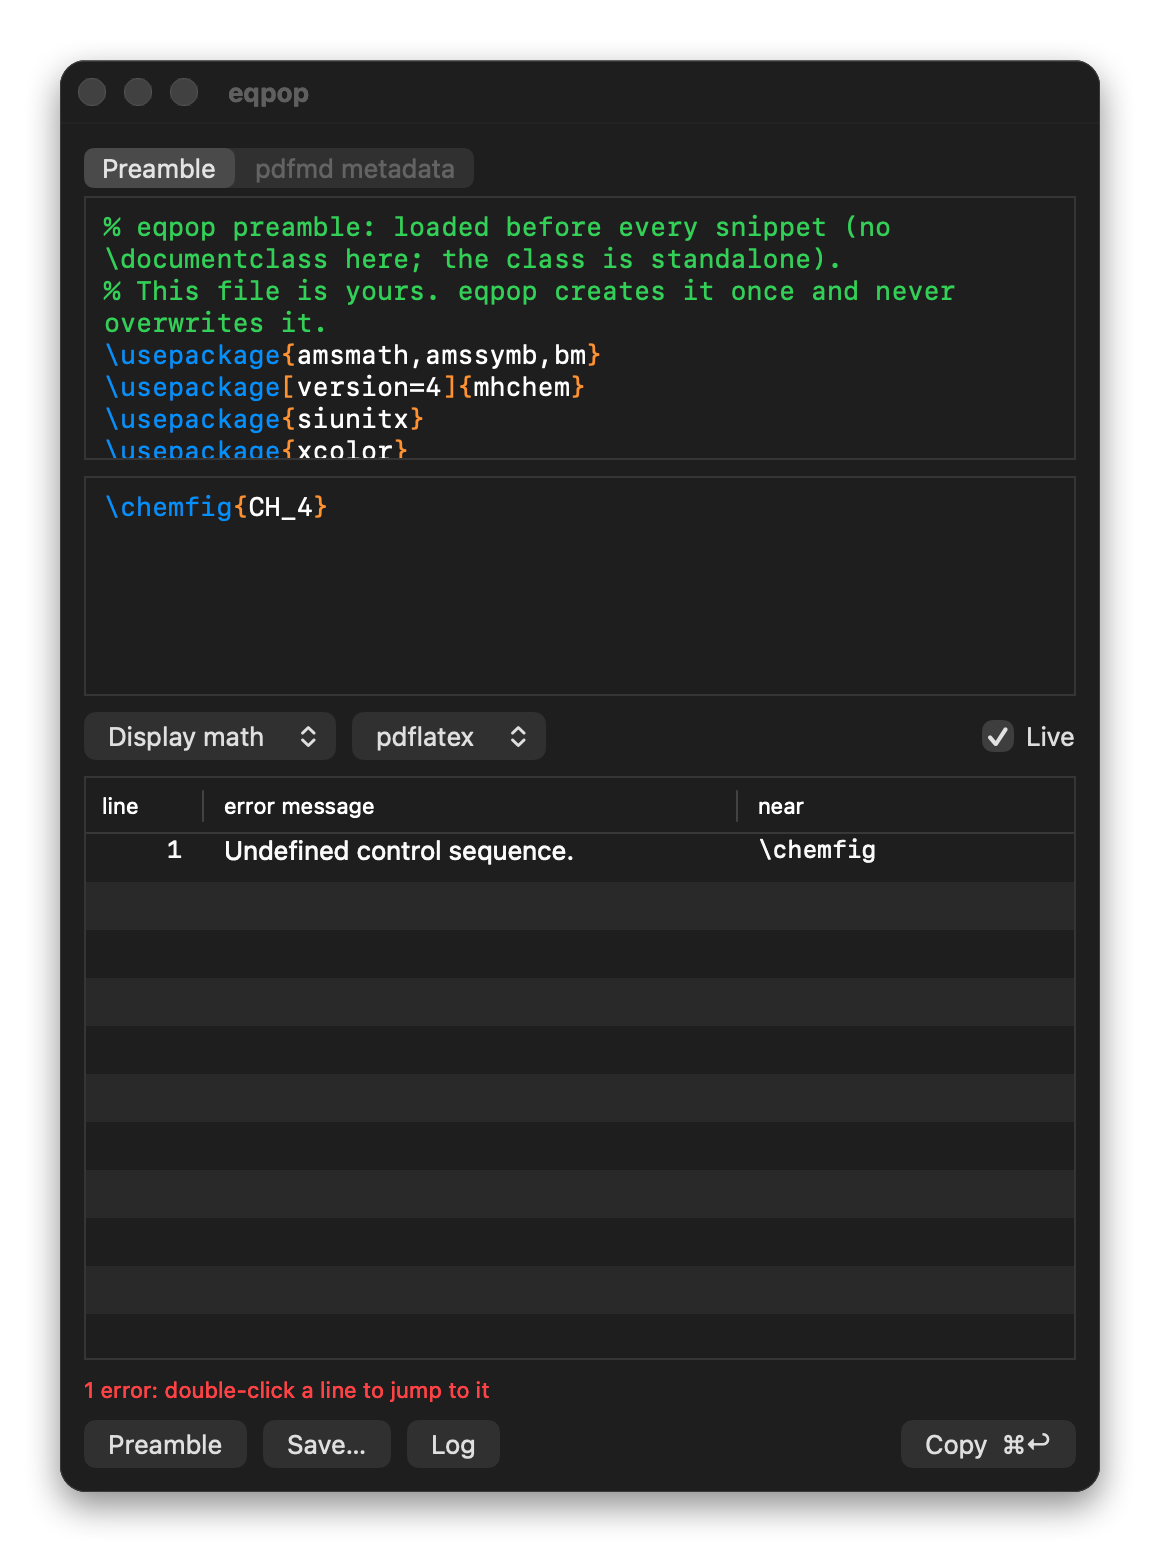
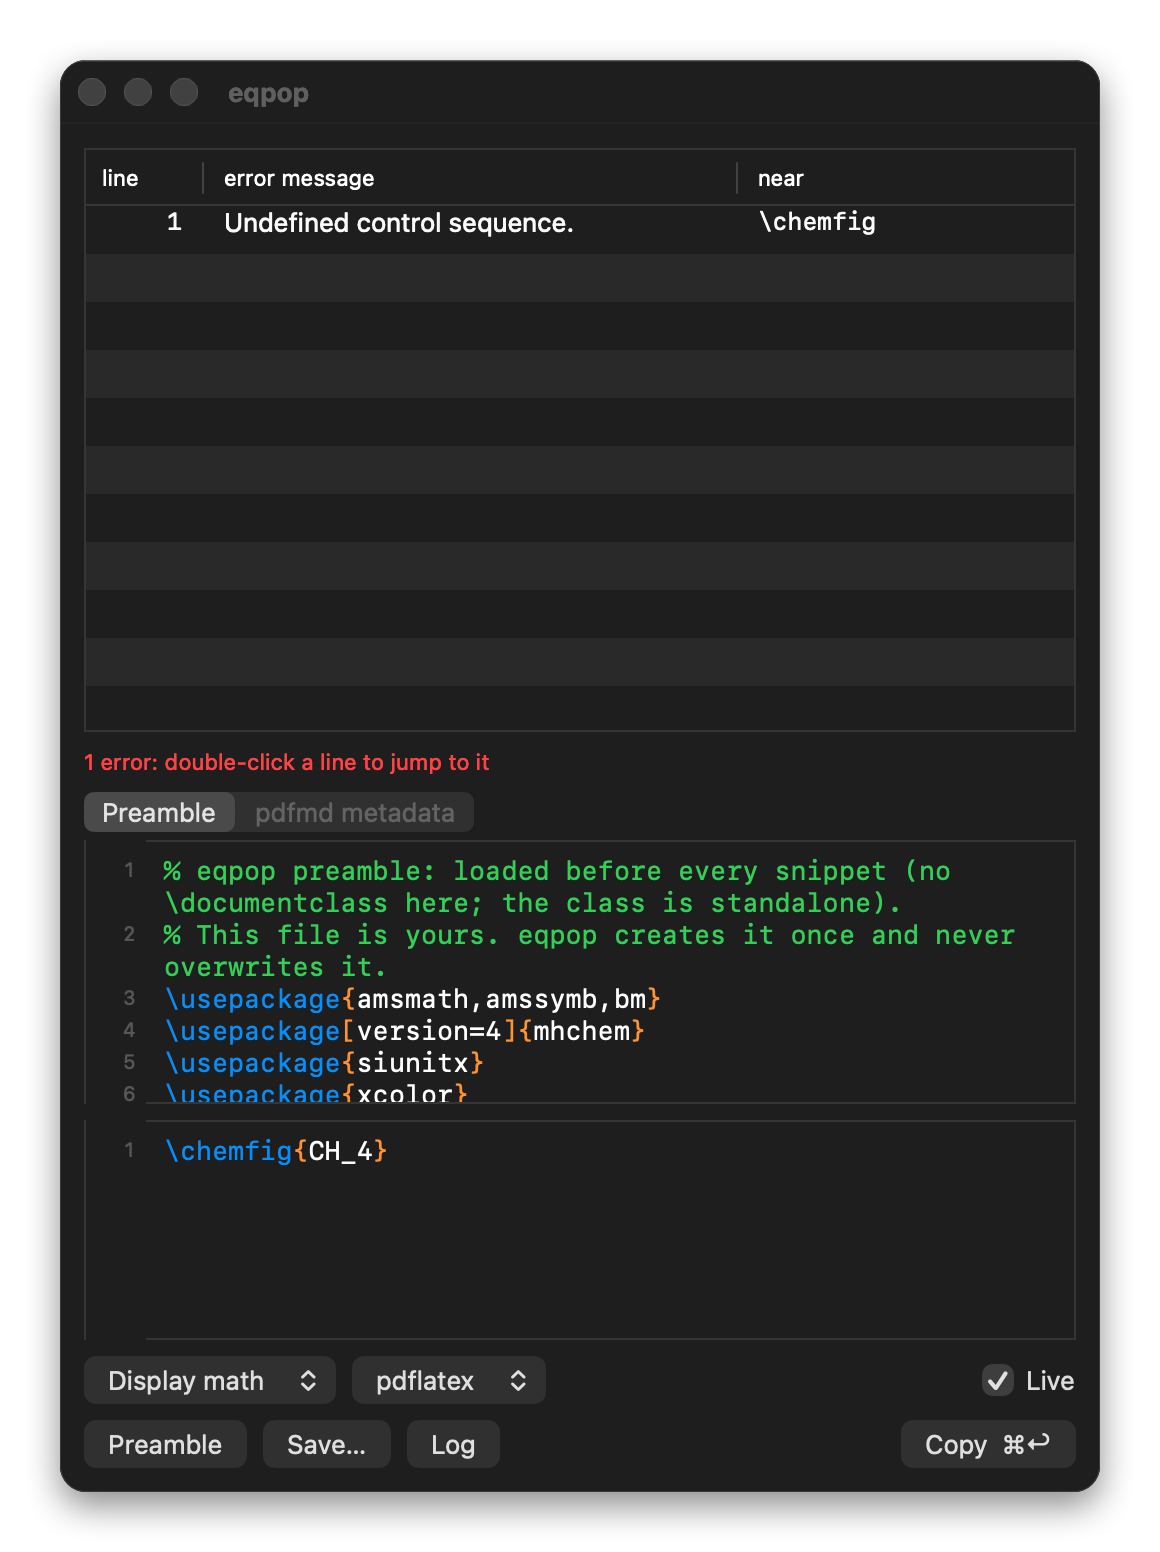
eqpop 0.2.0: line numbers, preview above or below the editor, light/dark screenshots

diff --git a/Sources/eqpop/App.swift b/Sources/eqpop/App.swift
@@ -55,6 +55,12 @@ final class App: NSObject, NSApplicationDelegate, NSTextViewDelegate {
     var hideAfterCopy = defaults.object(forKey: "hideAfterCopy") as? Bool ?? true
     var live = defaults.object(forKey: "live") as? Bool ?? true   // render while typing; off = only on ⌘R or ⌘↩
     var liveBox: NSButton!
+    var inputScroll: NSScrollView!
+    var chain: [NSLayoutConstraint] = []   // the vertical order of the rows; changes with the preview position
+    var content: NSView!
+    var rows: [NSView] = []                // preview, status, the pane (and the editor under it), the option row, the buttons
+    var lineNumbers = defaults.object(forKey: "lineNumbers") as? Bool ?? true
+    var previewAbove = defaults.object(forKey: "previewAbove") as? Bool ?? true   // LaTeXiT's order: the result on top
 
     static func plainCode(_ t: NSTextView) {
         t.font = .monospacedSystemFont(ofSize: 13, weight: .regular)
@@ -70,9 +76,11 @@ final class App: NSObject, NSApplicationDelegate, NSTextViewDelegate {
     }
 
     static var screenshotPath: String?
+    static var screenshotAppearance: String?   // "light" or "dark"; unset: the system's
 
     func applicationDidFinishLaunching(_ n: Notification) {
         _ = Store.preamble()   // creates the preamble file on the first launch only
+        if let a = App.screenshotAppearance { NSApp.appearance = NSAppearance(named: a == "light" ? .aqua : .darkAqua) }
         buildMainMenu()
         buildPanel()
         if let out = App.screenshotPath { screenshot(to: out); return }
@@ -96,6 +104,9 @@ final class App: NSObject, NSApplicationDelegate, NSTextViewDelegate {
         scroll.borderType = .bezelBorder
         scroll.heightAnchor.constraint(equalToConstant: 110).isActive = true
         inputEditing = TeXEditing(input)
+        inputScroll = scroll
+        scroll.verticalRulerView = LineNumbers(scroll, input)
+        scroll.hasVerticalRuler = true
 
         preambleScroll = NSTextView.scrollableTextView()
         preambleView = preambleScroll.documentView as? NSTextView
@@ -105,6 +116,8 @@ final class App: NSObject, NSApplicationDelegate, NSTextViewDelegate {
         preambleScroll.hasVerticalScroller = true
         preambleScroll.borderType = .bezelBorder
         preambleEditing = TeXEditing(preambleView)
+        preambleScroll.verticalRulerView = LineNumbers(preambleScroll, preambleView)
+        preambleScroll.hasVerticalRuler = true
         paneSeg = NSSegmentedControl(labels: ["Preamble", "pdfmd metadata"], trackingMode: .selectOne, target: self, action: #selector(paneChanged))
         paneSeg.controlSize = .small
         paneSeg.selectedSegment = 0
@@ -149,6 +162,8 @@ final class App: NSObject, NSApplicationDelegate, NSTextViewDelegate {
         preview.wantsLayer = true
         preview.layer?.backgroundColor = NSColor.white.cgColor   // black text stays readable in dark mode
         preview.layer?.cornerRadius = 6
+        preview.layer?.borderWidth = 1
+        preview.layer?.borderColor = NSColor(white: 0.5, alpha: 0.35).cgColor   // keeps the white sheet visible on a light window
         preview.setContentHuggingPriority(.defaultLow, for: .vertical)
         preview.heightAnchor.constraint(greaterThanOrEqualToConstant: 120).isActive = true
         preview.dragItem = { [weak self] in self?.pasteboardItem() }
@@ -164,19 +179,17 @@ final class App: NSObject, NSApplicationDelegate, NSTextViewDelegate {
         let copy = NSButton(title: "Copy  ⌘↩", target: self, action: #selector(copyRendered))
         copy.bezelStyle = .rounded
         // plain constraints, and every row but the preview has a fixed height: the preview takes all the extra room
-        let content = NSView()
+        content = NSView()
         let m: CGFloat = 12
         for v in [paneBox!, scroll, modePopup, enginePopup, pdfmdPopup, liveBox!, preview, errors.scroll, status, edit, save, logButton!, copy] {
             v.translatesAutoresizingMaskIntoConstraints = false
             content.addSubview(v)
         }
         NSLayoutConstraint.activate([
-            paneBox.topAnchor.constraint(equalTo: content.topAnchor, constant: m),
             paneBox.leadingAnchor.constraint(equalTo: scroll.leadingAnchor),
             paneBox.trailingAnchor.constraint(equalTo: scroll.trailingAnchor),
             scroll.leadingAnchor.constraint(equalTo: content.leadingAnchor, constant: m),
             scroll.trailingAnchor.constraint(equalTo: content.trailingAnchor, constant: -m),
-            modePopup.topAnchor.constraint(equalTo: scroll.bottomAnchor, constant: 8),
             modePopup.leadingAnchor.constraint(equalTo: scroll.leadingAnchor),
             enginePopup.leadingAnchor.constraint(equalTo: modePopup.trailingAnchor, constant: 8),
             enginePopup.centerYAnchor.constraint(equalTo: modePopup.centerYAnchor),
@@ -184,17 +197,14 @@ final class App: NSObject, NSApplicationDelegate, NSTextViewDelegate {
             pdfmdPopup.centerYAnchor.constraint(equalTo: modePopup.centerYAnchor),
             liveBox.trailingAnchor.constraint(equalTo: scroll.trailingAnchor),
             liveBox.centerYAnchor.constraint(equalTo: modePopup.centerYAnchor),
-            preview.topAnchor.constraint(equalTo: modePopup.bottomAnchor, constant: 8),
             preview.leadingAnchor.constraint(equalTo: scroll.leadingAnchor),
             preview.trailingAnchor.constraint(equalTo: scroll.trailingAnchor),
             errors.scroll.topAnchor.constraint(equalTo: preview.topAnchor),
             errors.scroll.bottomAnchor.constraint(equalTo: preview.bottomAnchor),
             errors.scroll.leadingAnchor.constraint(equalTo: preview.leadingAnchor),
             errors.scroll.trailingAnchor.constraint(equalTo: preview.trailingAnchor),
-            status.topAnchor.constraint(equalTo: preview.bottomAnchor, constant: 8),
             status.leadingAnchor.constraint(equalTo: scroll.leadingAnchor),
             status.trailingAnchor.constraint(equalTo: scroll.trailingAnchor),
-            edit.topAnchor.constraint(equalTo: status.bottomAnchor, constant: 8),
             edit.leadingAnchor.constraint(equalTo: scroll.leadingAnchor),
             save.leadingAnchor.constraint(equalTo: edit.trailingAnchor, constant: 8),
             save.centerYAnchor.constraint(equalTo: edit.centerYAnchor),
@@ -202,13 +212,16 @@ final class App: NSObject, NSApplicationDelegate, NSTextViewDelegate {
             logButton.centerYAnchor.constraint(equalTo: edit.centerYAnchor),
             copy.trailingAnchor.constraint(equalTo: scroll.trailingAnchor),
             copy.centerYAnchor.constraint(equalTo: edit.centerYAnchor),
-            edit.bottomAnchor.constraint(equalTo: content.bottomAnchor, constant: -m),
         ])
 
         preambleHeight = paneBox.heightAnchor.constraint(equalToConstant: preambleShown ? App.preamblePaneHeight : 0)
         preambleGap = scroll.topAnchor.constraint(equalTo: paneBox.bottomAnchor, constant: preambleShown ? 8 : 0)
         NSLayoutConstraint.activate([preambleHeight, preambleGap])
         paneBox.isHidden = !preambleShown
+        rows = [preview, status, paneBox, modePopup, edit]   // the rows, see applyLayout
+        applyLayout()
+        scroll.rulersVisible = lineNumbers
+        preambleScroll.rulersVisible = lineNumbers
 
         panel = Panel(contentRect: NSRect(x: 0, y: 0, width: 520, height: 520 + (preambleShown ? App.preamblePaneHeight + 8 : 0)),
                       styleMask: [.titled, .closable, .resizable], backing: .buffered, defer: false)
@@ -221,6 +234,44 @@ final class App: NSObject, NSApplicationDelegate, NSTextViewDelegate {
         if App.screenshotPath != nil { panel.center(); return }   // never touch the saved frame
         panel.setFrameAutosaveName("eqpopPanel")
         if !panel.setFrameUsingName("eqpopPanel") { panel.center() }
+    }
+
+    /// The rows run top to bottom in one chain: the preview and its status line, the pane with the editor, the options, the
+    /// buttons. The preview goes first or comes right after the editor and the options, as the user chose.
+    func applyLayout() {
+        NSLayoutConstraint.deactivate(chain)
+        let m: CGFloat = 12
+        let (preview, status, pane, options, buttons) = (rows[0], rows[1], rows[2], rows[3], rows[4])
+        let editor = inputScroll!
+        // each row as (its top view, its bottom view)
+        let order: [(NSView, NSView)] = previewAbove
+            ? [(preview, preview), (status, status), (pane, editor), (options, options), (buttons, buttons)]
+            : [(pane, editor), (options, options), (preview, preview), (status, status), (buttons, buttons)]
+        var c = [order[0].0.topAnchor.constraint(equalTo: content.topAnchor, constant: m),
+                 order[order.count - 1].1.bottomAnchor.constraint(equalTo: content.bottomAnchor, constant: -m)]
+        for i in 1..<order.count { c.append(order[i].0.topAnchor.constraint(equalTo: order[i - 1].1.bottomAnchor, constant: 8)) }
+        chain = c
+        NSLayoutConstraint.activate(chain)
+    }
+
+    @objc func togglePreviewAbove() {
+        previewAbove.toggle()
+        defaults.set(previewAbove, forKey: "previewAbove")
+        applyLayout()
+        content.needsLayout = true
+    }
+
+    @objc func toggleLineNumbers() {
+        lineNumbers.toggle()
+        defaults.set(lineNumbers, forKey: "lineNumbers")
+        inputScroll.rulersVisible = lineNumbers
+        preambleScroll.rulersVisible = lineNumbers
+    }
+
+    func validateMenuItem(_ item: NSMenuItem) -> Bool {
+        if item.action == #selector(togglePreviewAbove) { item.state = previewAbove ? .on : .off }
+        if item.action == #selector(toggleLineNumbers) { item.state = lineNumbers ? .on : .off }
+        return true
     }
 
     func buildMainMenu() {
@@ -242,6 +293,10 @@ final class App: NSObject, NSApplicationDelegate, NSTextViewDelegate {
         edit.addItem(withTitle: "Copy", action: #selector(NSText.copy(_:)), keyEquivalent: "c")
         edit.addItem(withTitle: "Paste", action: #selector(NSText.paste(_:)), keyEquivalent: "v")
         edit.addItem(withTitle: "Select All", action: #selector(NSText.selectAll(_:)), keyEquivalent: "a")
+        let viewItem = NSMenuItem(); bar.addItem(viewItem)
+        let view = NSMenu(title: "View"); viewItem.submenu = view
+        view.addItem(withTitle: "Preview above the editor", action: #selector(togglePreviewAbove), keyEquivalent: "").target = self
+        view.addItem(withTitle: "Line numbers", action: #selector(toggleLineNumbers), keyEquivalent: "").target = self
         NSApp.mainMenu = bar
     }
 
@@ -284,6 +339,8 @@ final class App: NSObject, NSApplicationDelegate, NSTextViewDelegate {
         let h = m.addItem(withTitle: "Hide after copying", action: #selector(toggleHideAfterCopy), keyEquivalent: "")
         h.target = self
         h.state = hideAfterCopy ? .on : .off
+        m.addItem(withTitle: "Preview above the editor", action: #selector(togglePreviewAbove), keyEquivalent: "").target = self
+        m.addItem(withTitle: "Line numbers", action: #selector(toggleLineNumbers), keyEquivalent: "").target = self
         let a = m.addItem(withTitle: "Launch at login", action: #selector(toggleLaunchAtLogin), keyEquivalent: "")
         a.target = self
         a.state = SMAppService.mainApp.status == .enabled ? .on : .off

diff --git a/Sources/eqpop/LineNumbers.swift b/Sources/eqpop/LineNumbers.swift
@@ -1,0 +1,54 @@
+import Cocoa
+
+/// A gutter with the line numbers of a text view (numbers of lines, not of wrapped rows: a wrapped line is numbered once).
+final class LineNumbers: NSRulerView {
+    private weak var textView: NSTextView?
+
+    init(_ scroll: NSScrollView, _ tv: NSTextView) {
+        textView = tv
+        super.init(scrollView: scroll, orientation: .verticalRuler)
+        clientView = tv
+        ruleThickness = 30
+        clipsToBounds = true
+        scroll.contentView.postsBoundsChangedNotifications = true
+        let nc = NotificationCenter.default
+        nc.addObserver(self, selector: #selector(redraw), name: NSView.boundsDidChangeNotification, object: scroll.contentView)
+        nc.addObserver(self, selector: #selector(redraw), name: NSText.didChangeNotification, object: tv)
+    }
+
+    required init(coder: NSCoder) { fatalError("not used") }
+
+    @objc private func redraw() { needsDisplay = true }
+
+    override func drawHashMarksAndLabels(in rect: NSRect) {
+        guard let tv = textView, let lm = tv.layoutManager, let tc = tv.textContainer else { return }
+        NSColor.controlBackgroundColor.setFill()
+        bounds.fill()
+        let attrs: [NSAttributedString.Key: Any] = [.font: NSFont.monospacedDigitSystemFont(ofSize: 10, weight: .regular),
+                                                    .foregroundColor: NSColor.tertiaryLabelColor]
+        let text = tv.string as NSString
+        let origin = tv.textContainerOrigin
+
+        func draw(_ n: Int, atFragment r: NSRect) {
+            let label = NSAttributedString(string: String(n), attributes: attrs)
+            let y = convert(NSPoint(x: 0, y: r.minY + origin.y), from: tv).y
+            label.draw(at: NSPoint(x: ruleThickness - 5 - label.size().width, y: y + (r.height - label.size().height) / 2))
+        }
+
+        func lineNumber(at loc: Int) -> Int {   // newlines before it, plus one; the texts here hold a few lines
+            var n = 1
+            for i in 0..<loc where text.character(at: i) == 0x0A { n += 1 }
+            return n
+        }
+
+        let glyphs = lm.glyphRange(forBoundingRect: tv.visibleRect, in: tc)
+        lm.enumerateLineFragments(forGlyphRange: glyphs) { r, _, _, g, _ in
+            let loc = lm.characterRange(forGlyphRange: g, actualGlyphRange: nil).location
+            if loc == 0 || text.character(at: loc - 1) == 0x0A { draw(lineNumber(at: loc), atFragment: r) }
+        }
+        if text.length == 0 || text.character(at: text.length - 1) == 0x0A {   // the empty last line has no fragment of its own
+            let extra = lm.extraLineFragmentRect
+            if extra.height > 0 { draw(lineNumber(at: text.length), atFragment: extra) }
+        }
+    }
+}

diff --git a/Sources/eqpop/main.swift b/Sources/eqpop/main.swift
@@ -11,7 +11,9 @@ if let i = cliArgs.firstIndex(of: "--screenshot") {
         ?? "\\ce{CH4 + 2O2 -> CO2 + 2H2O}\n\\qquad \\Delta H^\\circ = \\SI{-890}{\\kilo\\joule\\per\\mole}"
     defaults.set(sample, forKey: "source")
     defaults.set(true, forKey: "preambleShown")
+    if cliArgs.contains("--below") { defaults.set(false, forKey: "previewAbove") }
     App.screenshotPath = cliArgs[i + 1]
+    App.screenshotAppearance = cliArgs.firstIndex(of: "--appearance").map { cliArgs[$0 + 1] }
 }
 
 let app = NSApplication.shared

diff --git a/Sources/eqpop/Store.swift b/Sources/eqpop/Store.swift
@@ -1,6 +1,6 @@
 import Foundation
 
-let eqpopVersion = "0.1.5"
+let eqpopVersion = "0.2.0"
 
 /// What the app keeps on disk. The preamble is a plain file the user owns: it is written once, when missing, and
 /// never overwritten by the app; every render reads it from disk, so an edit in any editor counts at once.

diff --git a/README.md b/README.md
@@ -20,11 +20,15 @@ focus back to the app you came from. The preview can also be dragged into Keynot
 - **Errors**: a failed render shows a table of every error (line, message, near) in place of the preview, like
   LaTeXiT; double-click a row to jump to the line. **Log** shows the full log.
 - **Live**: the checkbox (or the menu) turns rendering-while-typing off; ⌘R renders, ⌘↩ renders and copies.
+- **Looks**: follows the system's light or dark appearance (the preview stays a white sheet, so black text reads in
+  both). Line numbers in both editors. The preview sits above the editor, as in LaTeXiT, or below it: the menu-bar
+  menu and the View menu have "Preview above the editor" and "Line numbers".
 - **Export**: Save… (⌘S) writes PDF, PNG or SVG (SVG needs `pdftocairo` from poppler, or `mutool`).
 
 <p align="center">
-  <img src="docs/screenshot.png" width="360" alt="eqpop rendering a chemical equation">
-  <img src="docs/errors.png" width="360" alt="eqpop listing a LaTeX error">
+  <img src="docs/screenshot.png" width="270" alt="eqpop, dark appearance">
+  <img src="docs/screenshot-light.png" width="270" alt="eqpop, light appearance">
+  <img src="docs/errors.png" width="270" alt="eqpop listing a LaTeX error">
 </p>
 
 ## Install

diff --git a/CHANGELOG.md b/CHANGELOG.md
@@ -3,6 +3,16 @@
 Newest first. One minor version (`0.N.0`) per feature line; every commit after it in that line is a patch.
 The version is `eqpopVersion` in `Sources/eqpop/Store.swift`; a change, its entry here and the bump go in one commit.
 
+## 0.2.0 — 2026-10-20
+
+- **Line numbers** in the source and the preamble editors (a wrapped line is numbered once). Menu: View → Line numbers.
+- **Preview position.** The preview and its status line go above the editor (the default, as in LaTeXiT) or below it:
+  View → Preview above the editor, also in the menu-bar menu. Remembered.
+- The preview sheet has a hairline border, so it shows on a light window.
+- `--screenshot` takes `--appearance light|dark` and `--below`; the README shows both appearances.
+- The appearance was always the system's (the window, text and highlight colours are system colours); this is the
+  first release that says so.
+
 ## 0.1.5 — 2026-10-20
 
 - `eqpop --screenshot OUT.png [--source TEXT]` writes a picture of the window (title bar, rounded corners, shadow)
